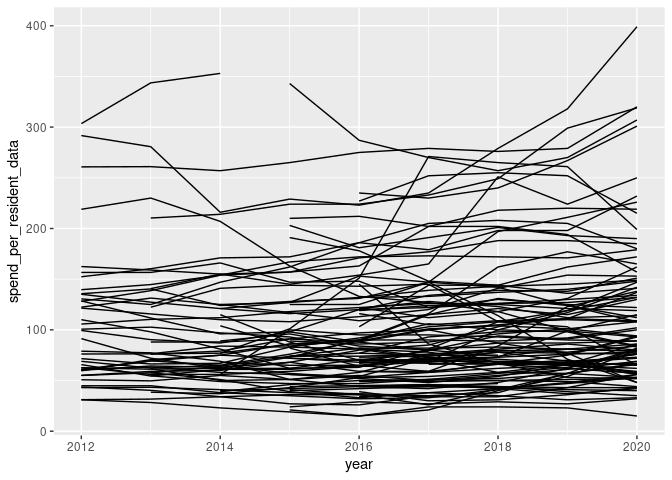
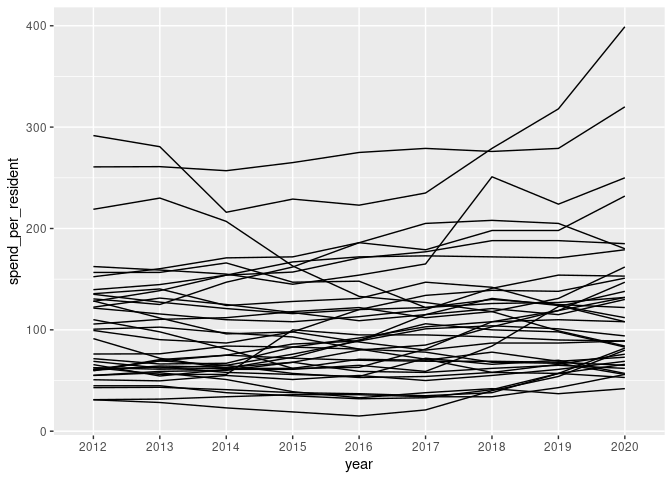
data wrangling for plot 1 in q1

diff --git a/README.md b/README.md
@@ -4,9 +4,14 @@ The Scatterplots
 
 ## Introduction
 
-(1-2 paragraphs) Brief introduction to the dataset. You may repeat some
-of the information about the dataset provided in the introduction to the
-dataset on the TidyTuesday repository, paraphrasing on your own terms.
+(1-2 paragraphs)
+
+Brief introduction to the dataset.
+
+You may repeat some of the information about the dataset provided in the
+introduction to the dataset on the TidyTuesday repository, paraphrasing
+on your own terms.
+
 Imagine that your project is a standalone document and the grader has no
 prior knowledge of the dataset.
 
@@ -36,11 +41,14 @@ interested in this question.
 ### Approach
 
 (1-2 paragraphs) Describe what types of plots you are going to make to
-address your question. For each plot, provide a clear explanation as to
-why this plot (e.g. boxplot, barplot, histogram, etc.) is best for
-providing the information you are asking about. The two plots should be
-of different types, and at least one of the two plots needs to use
-either color mapping or facets.
+address your question.
+
+For each plot, provide a clear explanation as to why this plot
+(e.g. boxplot, barplot, histogram, etc.) is best for providing the
+information you are asking about.
+
+The two plots should be of different types, and at least one of the two
+plots needs to use either color mapping or facets.
 
 ### Analysis
 
@@ -71,20 +79,30 @@ parks <- parks %>%
     ## Warning: between() called on numeric vector with S3 class
 
 ``` r
-parks <- parks %>%
+parks_q1 <- parks %>%
   mutate(across(starts_with("spend_per_resident_data"), ~gsub("\\$", "", .) 
-                  %>% as.numeric))
-  
-#to remove the $ and change from a categorical variable to a numerical variable 
+                  %>% as.numeric)) %>% 
+  select(year, city, spend_per_resident_data) %>% 
+  pivot_wider(names_from = "year", 
+              values_from = "spend_per_resident_data") %>% 
+  drop_na() %>% 
+  pivot_longer(cols = starts_with("20"),
+               names_to = "year", 
+               values_to = "spend_per_resident")
 
-ggplot(data = parks, mapping = aes(x = year, y = spend_per_resident_data, group = city)) + 
-  geom_line()
+# to remove the $ and change from a categorical variable to a numerical variable 
+# selected relevant variables, pivot wider to see what cities have data from every year
+# drop na's from cities that do not have spending data from every year
+# pivot longer to return dataset to a structure that can be plotted on a line plot
+
+ggplot(data = parks_q1, mapping = aes(x = year, y = spend_per_resident, group = city)) + 
+  geom_line() 
 ```
 
 ![](README_files/figure-gfm/question%201-1.png)<!-- -->
 
 ``` r
-#only had a few minutes to play around with this, but some ideas for next steps: facet by region, select only cities that have data from each year (see how many this would be, it looks like a lot start after 2012), 
+#  some idea for next steps: facet by region 
 ```
 
 (2-3 code blocks, 2 figures, text/code comments as needed) In this
